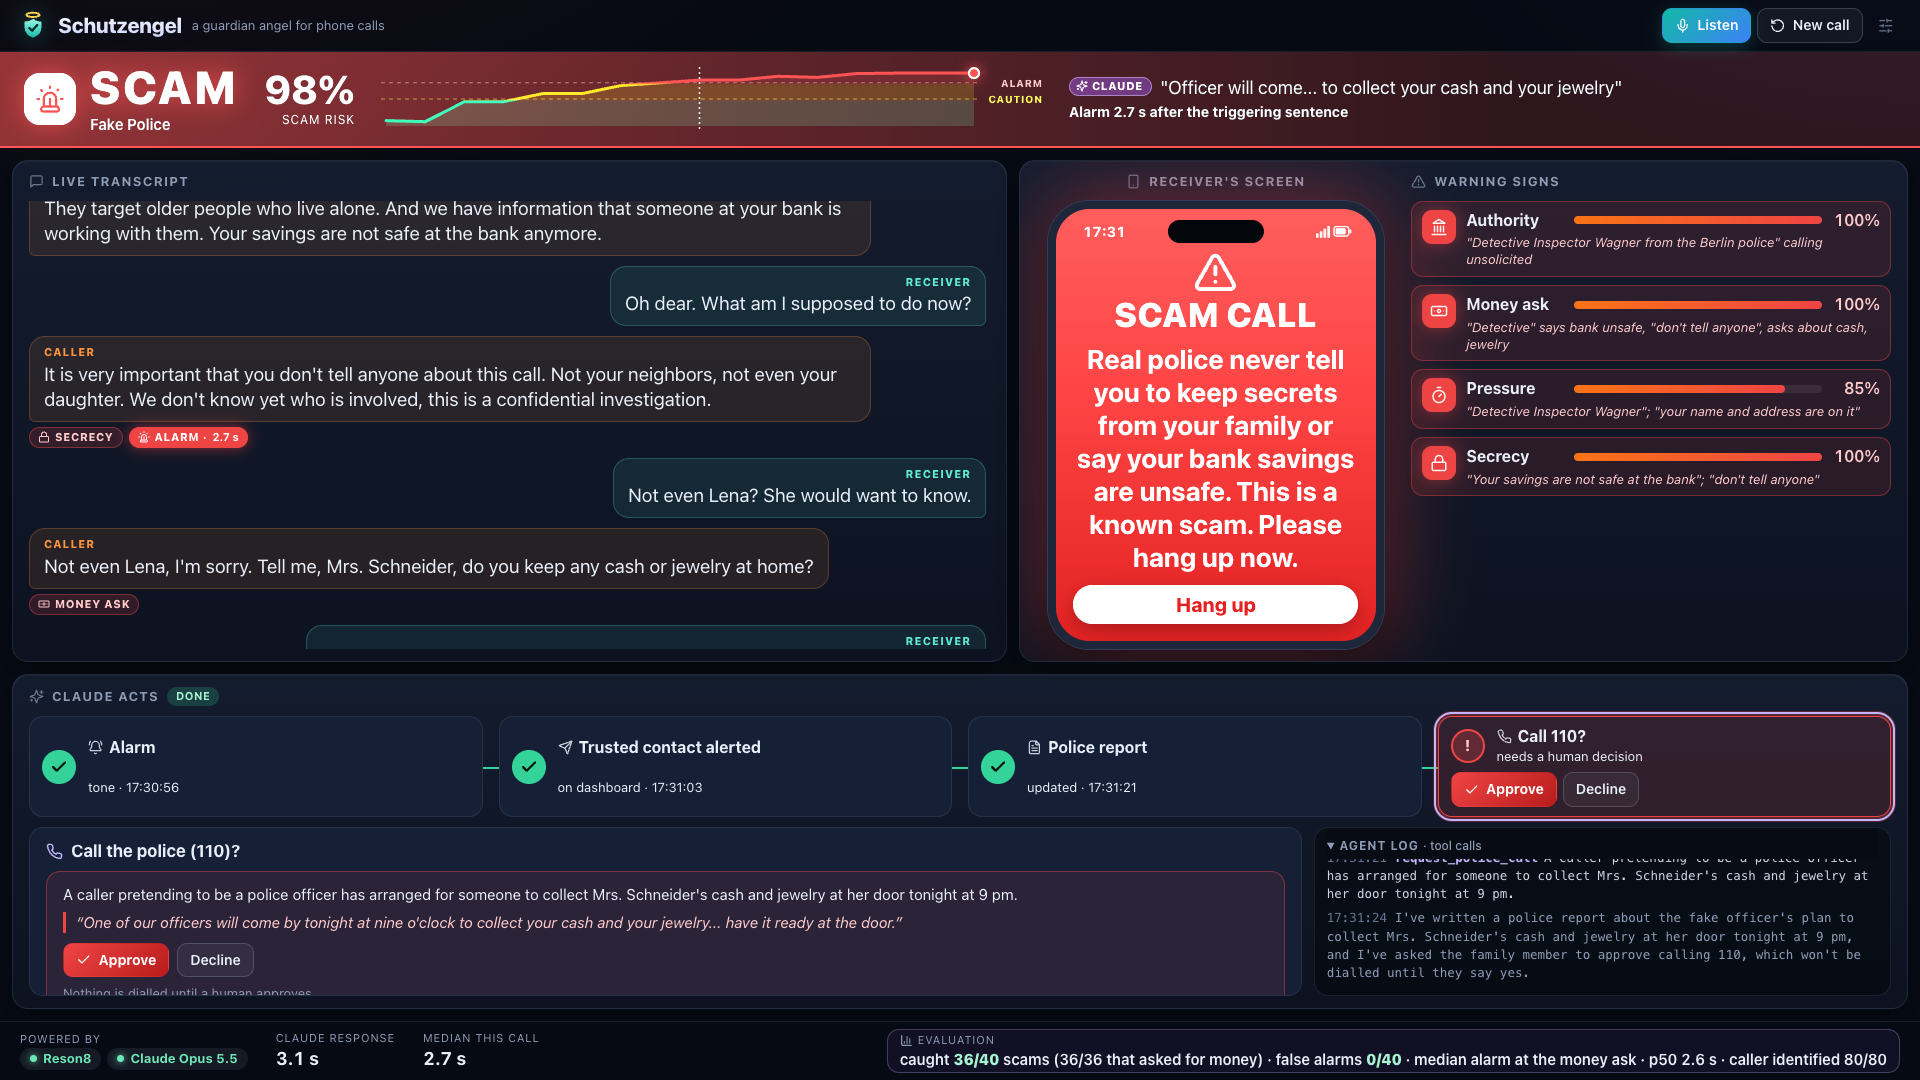
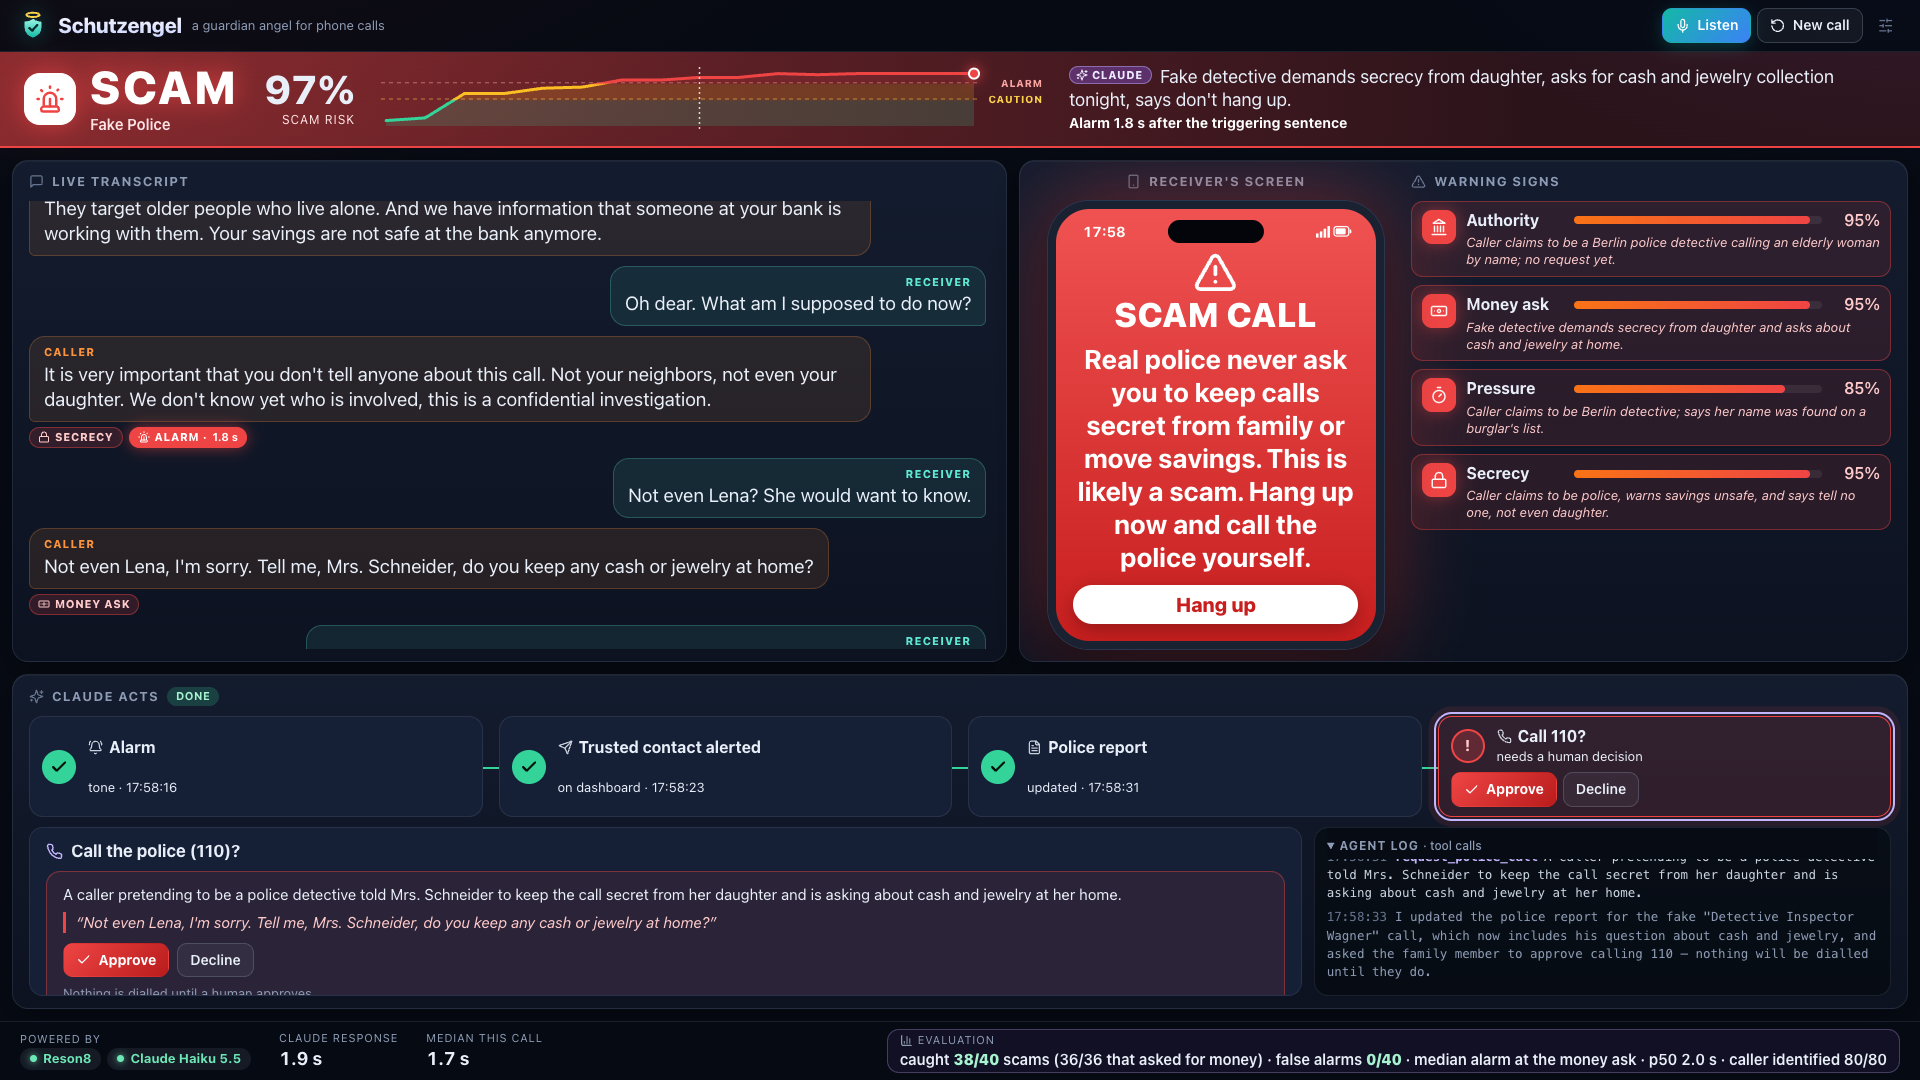
Re-verify the demo with the Haiku scorer
- Runbook cues measured with Haiku: the alarm comes 1.5-1.8 s after the
  triggering sentence (1.6 s in the live test), and the status bar can
  turn amber on the authority line already
- README screenshot retaken from a real Haiku replay
- Replay (37 checks) and live-mic (14 checks) suites pass with
  SCORER_MODEL=claude-haiku-5-5; the normal call stays green

diff --git a/docs/DEMO_SCRIPT.md b/docs/DEMO_SCRIPT.md
@@ -78,14 +78,14 @@ Rules for the speakers:
 |---|---|---|---|
 | 1 | Caller | "Good evening, am I speaking with Mrs. Erika Schneider?" | **The caller speaks first.** The line shows as "Speaker 1". *"Reson8 is transcribing the room in real time and separating the two voices. Claude works out who is calling from what is said."* In testing, the labels switch to **Caller** right after this line, with the note "Caller identified by Claude". |
 | 2 | Receiver | "Yes, speaking. Who is this?" | Labelled **Receiver**, on the right. If labels are ever wrong, press **W** (Swap speakers). |
-| 3 | Caller | "This is Detective Inspector Wagner, Berlin police, criminal investigation department. Don't worry, you're not in trouble." | The **Authority** warning sign lights up with Claude's evidence, and the line gets an **AUTHORITY** tag. *"First sign: claims to be police. Claude marks the exact sentence."* |
+| 3 | Caller | "This is Detective Inspector Wagner, Berlin police, criminal investigation department. Don't worry, you're not in trouble." | The **Authority** warning sign lights up with Claude's evidence, and the line gets an **AUTHORITY** tag. With the Haiku scorer the status bar often turns **AMBER** right here (it did in the live test). *"First sign: claims to be police. Claude marks the exact sentence."* |
 | 4 | Receiver | "The police? Oh my goodness, what happened?" | |
-| 5 | Caller | "Tonight we arrested a burglary gang in your street. Your name was on their list. And someone at your bank is working with them, your savings are not safe." | **The status bar turns AMBER: CAUTION** (observed in testing on this line), the line gets **PRESSURE** and **CAUTION** tags, and an amber **"Be careful"** banner appears on the receiver's call screen. *"Second sign: fear, a threat to her savings."* |
+| 5 | Caller | "Tonight we arrested a burglary gang in your street. Your name was on their list. And someone at your bank is working with them, your savings are not safe." | The **Pressure** sign lights up and the line gets a **PRESSURE** tag. The status bar is **AMBER: CAUTION** by now (on this line with Opus; Haiku usually got there one line earlier, so the CAUTION tag may sit on line 3), and the receiver's call screen shows the amber **"Be careful"** banner. *"Second sign: fear, a threat to her savings."* |
 | 6 | Receiver | "Oh dear. What should I do?" | |
-| 7 | Caller | "It's very important you don't tell anyone about this call. Not even your daughter." | **ALARM** (2.5 to 3 s after this line with the Opus scorer; Haiku is about 1 s faster, so note the time in rehearsal): the screen edges flash red once, the status bar turns red, the **alarm tone** sounds once, the receiver's phone turns into the full-screen warning, and the line gets a red **ALARM** tag with the reaction time. **Pause 2 s.** |
+| 7 | Caller | "It's very important you don't tell anyone about this call. Not even your daughter." | **ALARM** (about 1.5 to 2 s after this line with the Haiku scorer: 1.6 s in the live test, 1.5 to 1.8 s in replays): the screen edges flash red once, the status bar turns red, the **alarm tone** sounds once, the receiver's phone turns into the full-screen warning, and the line gets a red **ALARM** tag with the reaction time. **Pause 2 s.** |
 
 **Right after the alarm, the presenter walks the screen top to bottom:**
-1. **Status bar**: *"SCAM, fake police, two seconds after the sentence, with Claude's reason."* (Say the reaction time the status bar shows.) Point at the risk line: *"Every dot is one sentence. You can see the scam build up: green, amber, and over the alarm line here."*
+1. **Status bar**: *"SCAM, fake police, under two seconds after the sentence, with Claude's reason."* (Say the reaction time the status bar shows.) Point at the risk line: *"Every dot is one sentence. You can see the scam build up: green, amber, and over the alarm line here."*
 2. **Receiver's screen**: *"She hears an alarm and sees a calm warning: 'Real police never tell you to keep secrets from family… hang up now.' Claude wrote it for this exact scam, in the same step that raised the alarm. It fired before any money was mentioned, on the secrecy alone."*
 3. **Claude acts**, step by step: *"Alarm, done. Trusted contact alerted, with the caller's exact words. Police report drafted."* Press **2** for the message to the trusted contact and **3** for the police report (or click the steps).
 

diff --git a/openspec/changes/demo-ready-dashboard/tasks.md b/openspec/changes/demo-ready-dashboard/tasks.md
@@ -32,6 +32,7 @@ Run browser tests only against test servers (:3201 for the real server, :3202 fo
 - [x] 5.3 `docs/DEMO_SCRIPT.md`: the keys table, presenter mode in the pre-flight list, "New call", the new cues (tags, risk line, banner, flash, Call ended), the evaluation view in the walkthrough and video, and an optional real-phone section. `README.md`: the dashboard status, the `/phone` route, and the corrected event list (`alarm`, `roles`, `screens`). Verify that neither file mentions "End call / Reset"
 - [x] 5.4 Re-take `docs/dashboard-alarm.png` from a real replay of `scam-fake-police` in presenter mode at 1920×1080 with the 110 request pending, the transcript scrolled to the alarm line. Verify by viewing it
 - [x] 5.5 `openspec validate --strict` passes for this change and for `generic-names-beep-story-ui`
+- [x] 5.6 After rebasing onto the Haiku scorer switch (`24173f2`), set `SCORER_MODEL=claude-haiku-5-5` in the demo laptop's `.env` (the agent stays on Opus 5.5), then run `phone-fit.mjs`, `story-replay-test.mjs` and `story-live-test.mjs` on :3201. Verify ALL PASSED and that the normal call stays SAFE. Measured: the alarm 1.5–1.8 s after the triggering sentence in replays and 1.6 s live (Opus: 2.7 s); CAUTION came on line 3 in the live test (line 5 with Opus). The runbook cues and `docs/dashboard-alarm.png` were updated to match
 
 ## Workflow follow-up
 
